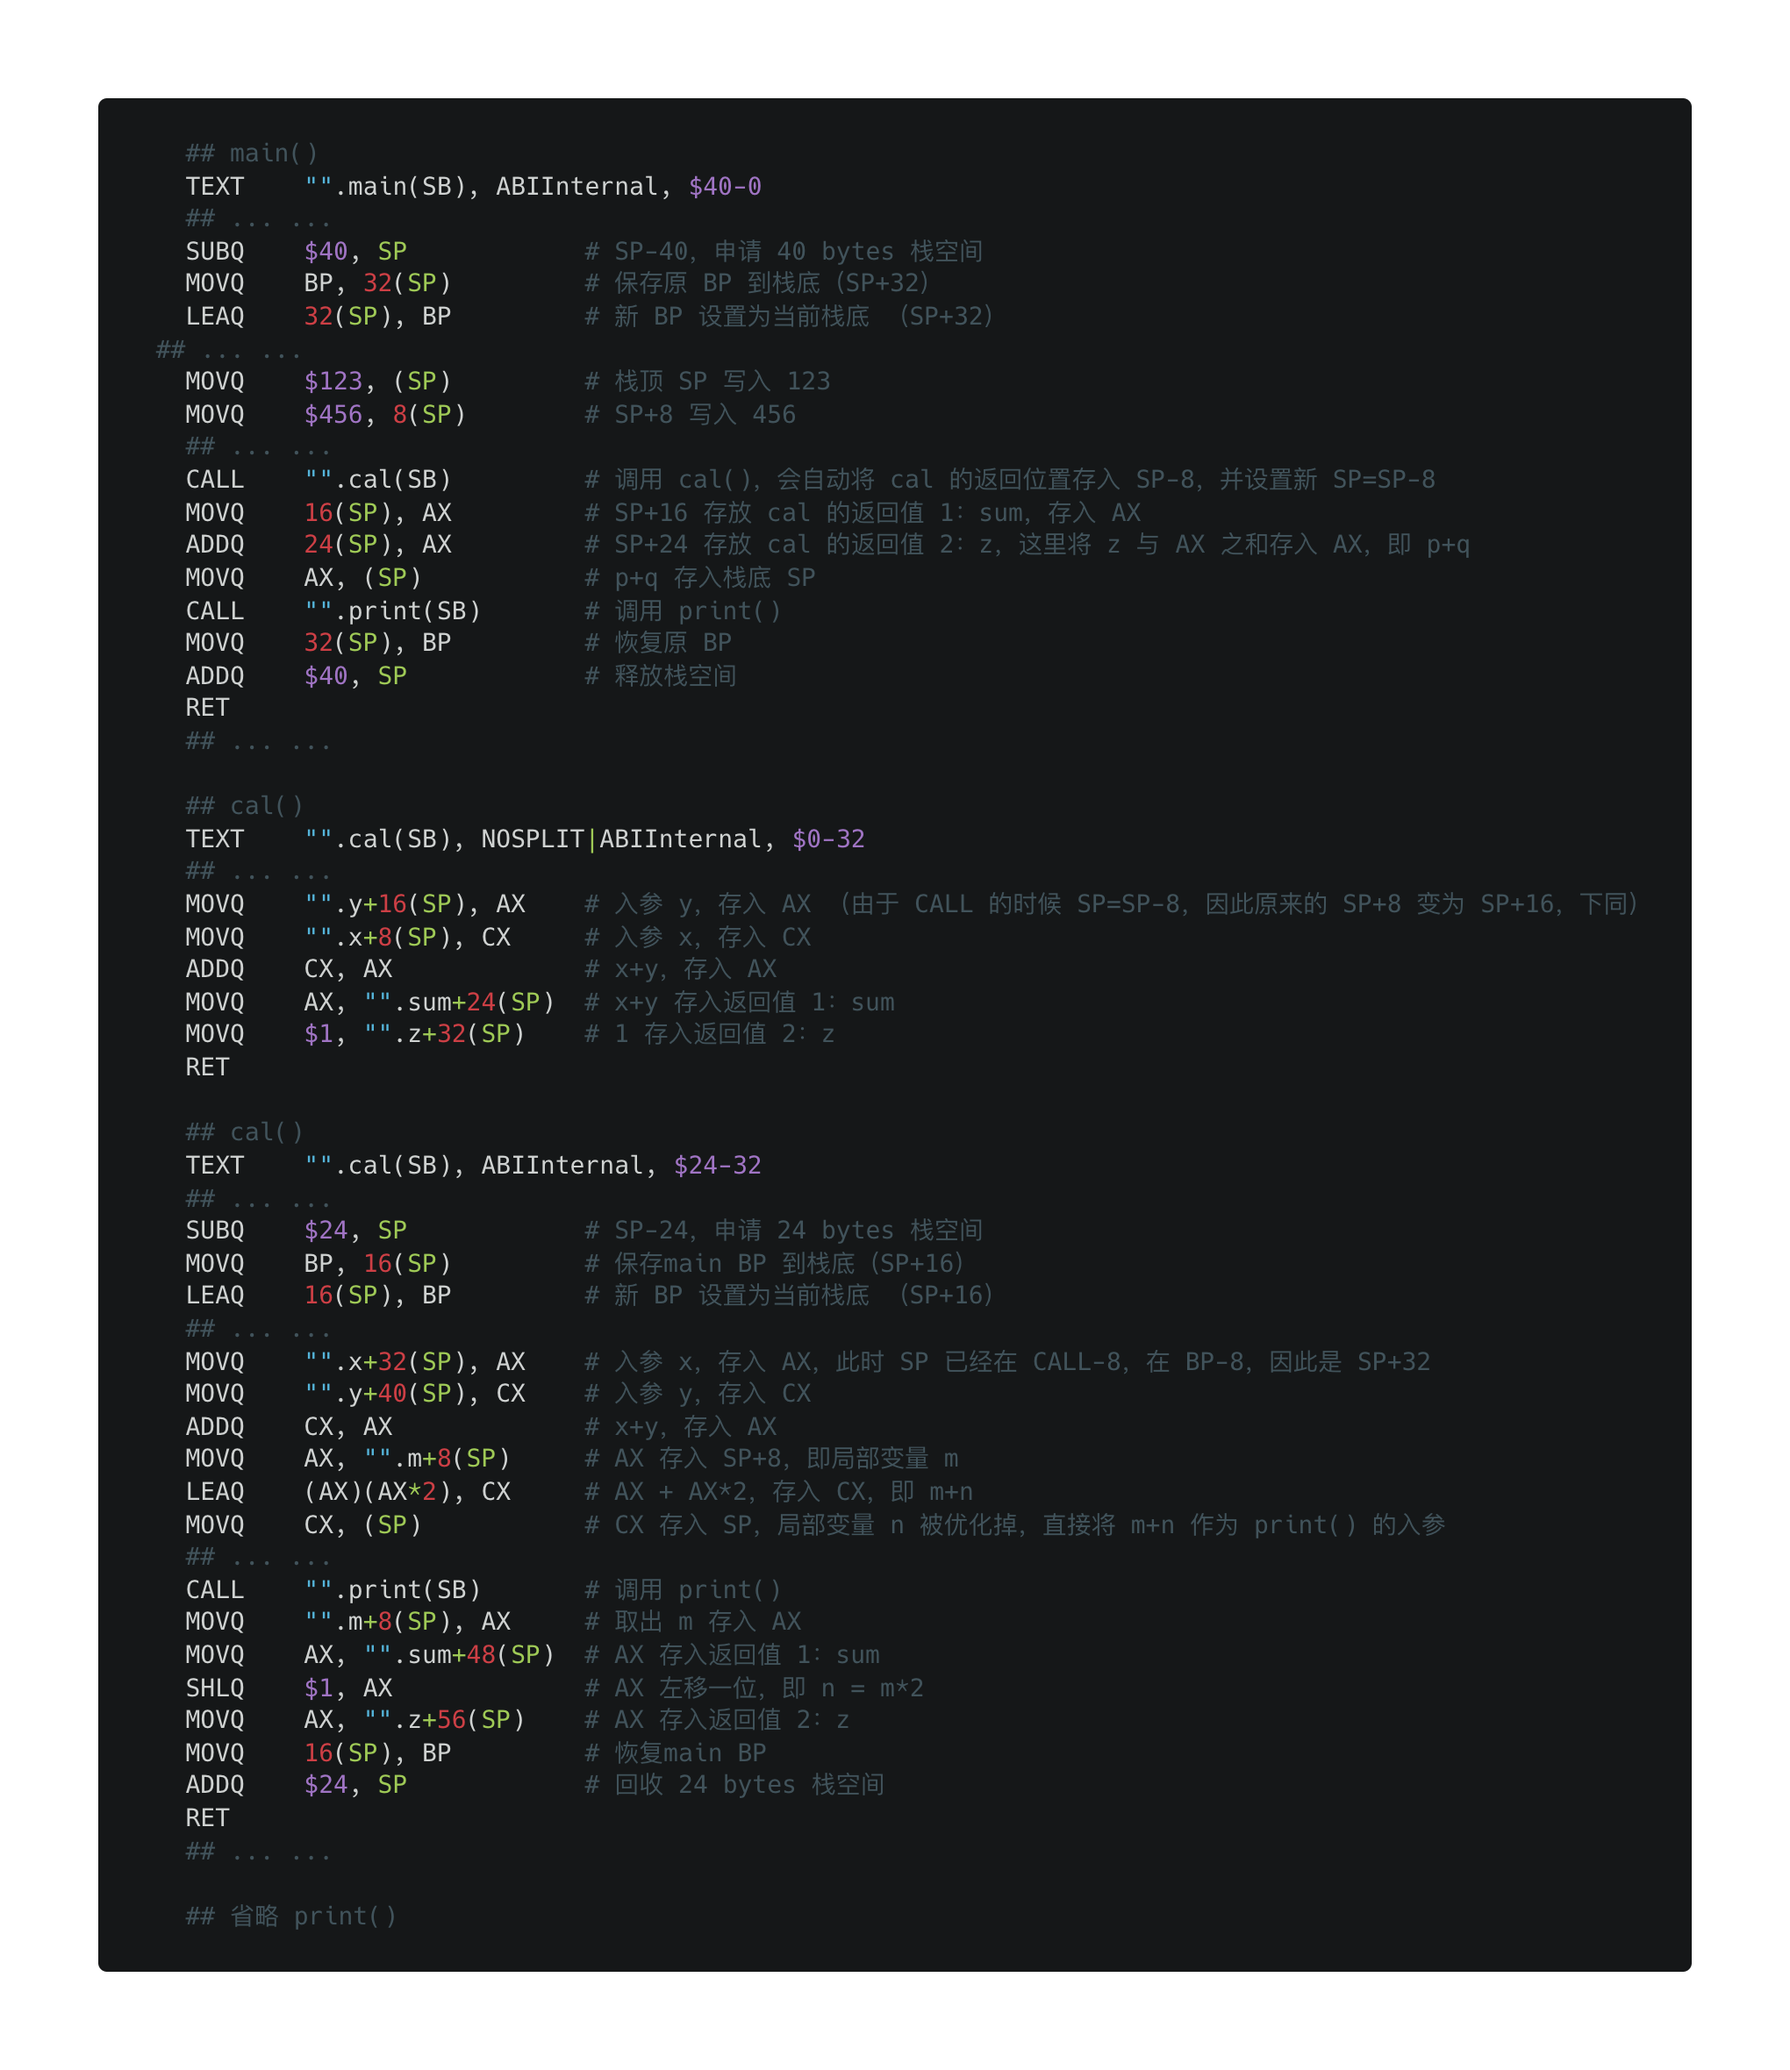
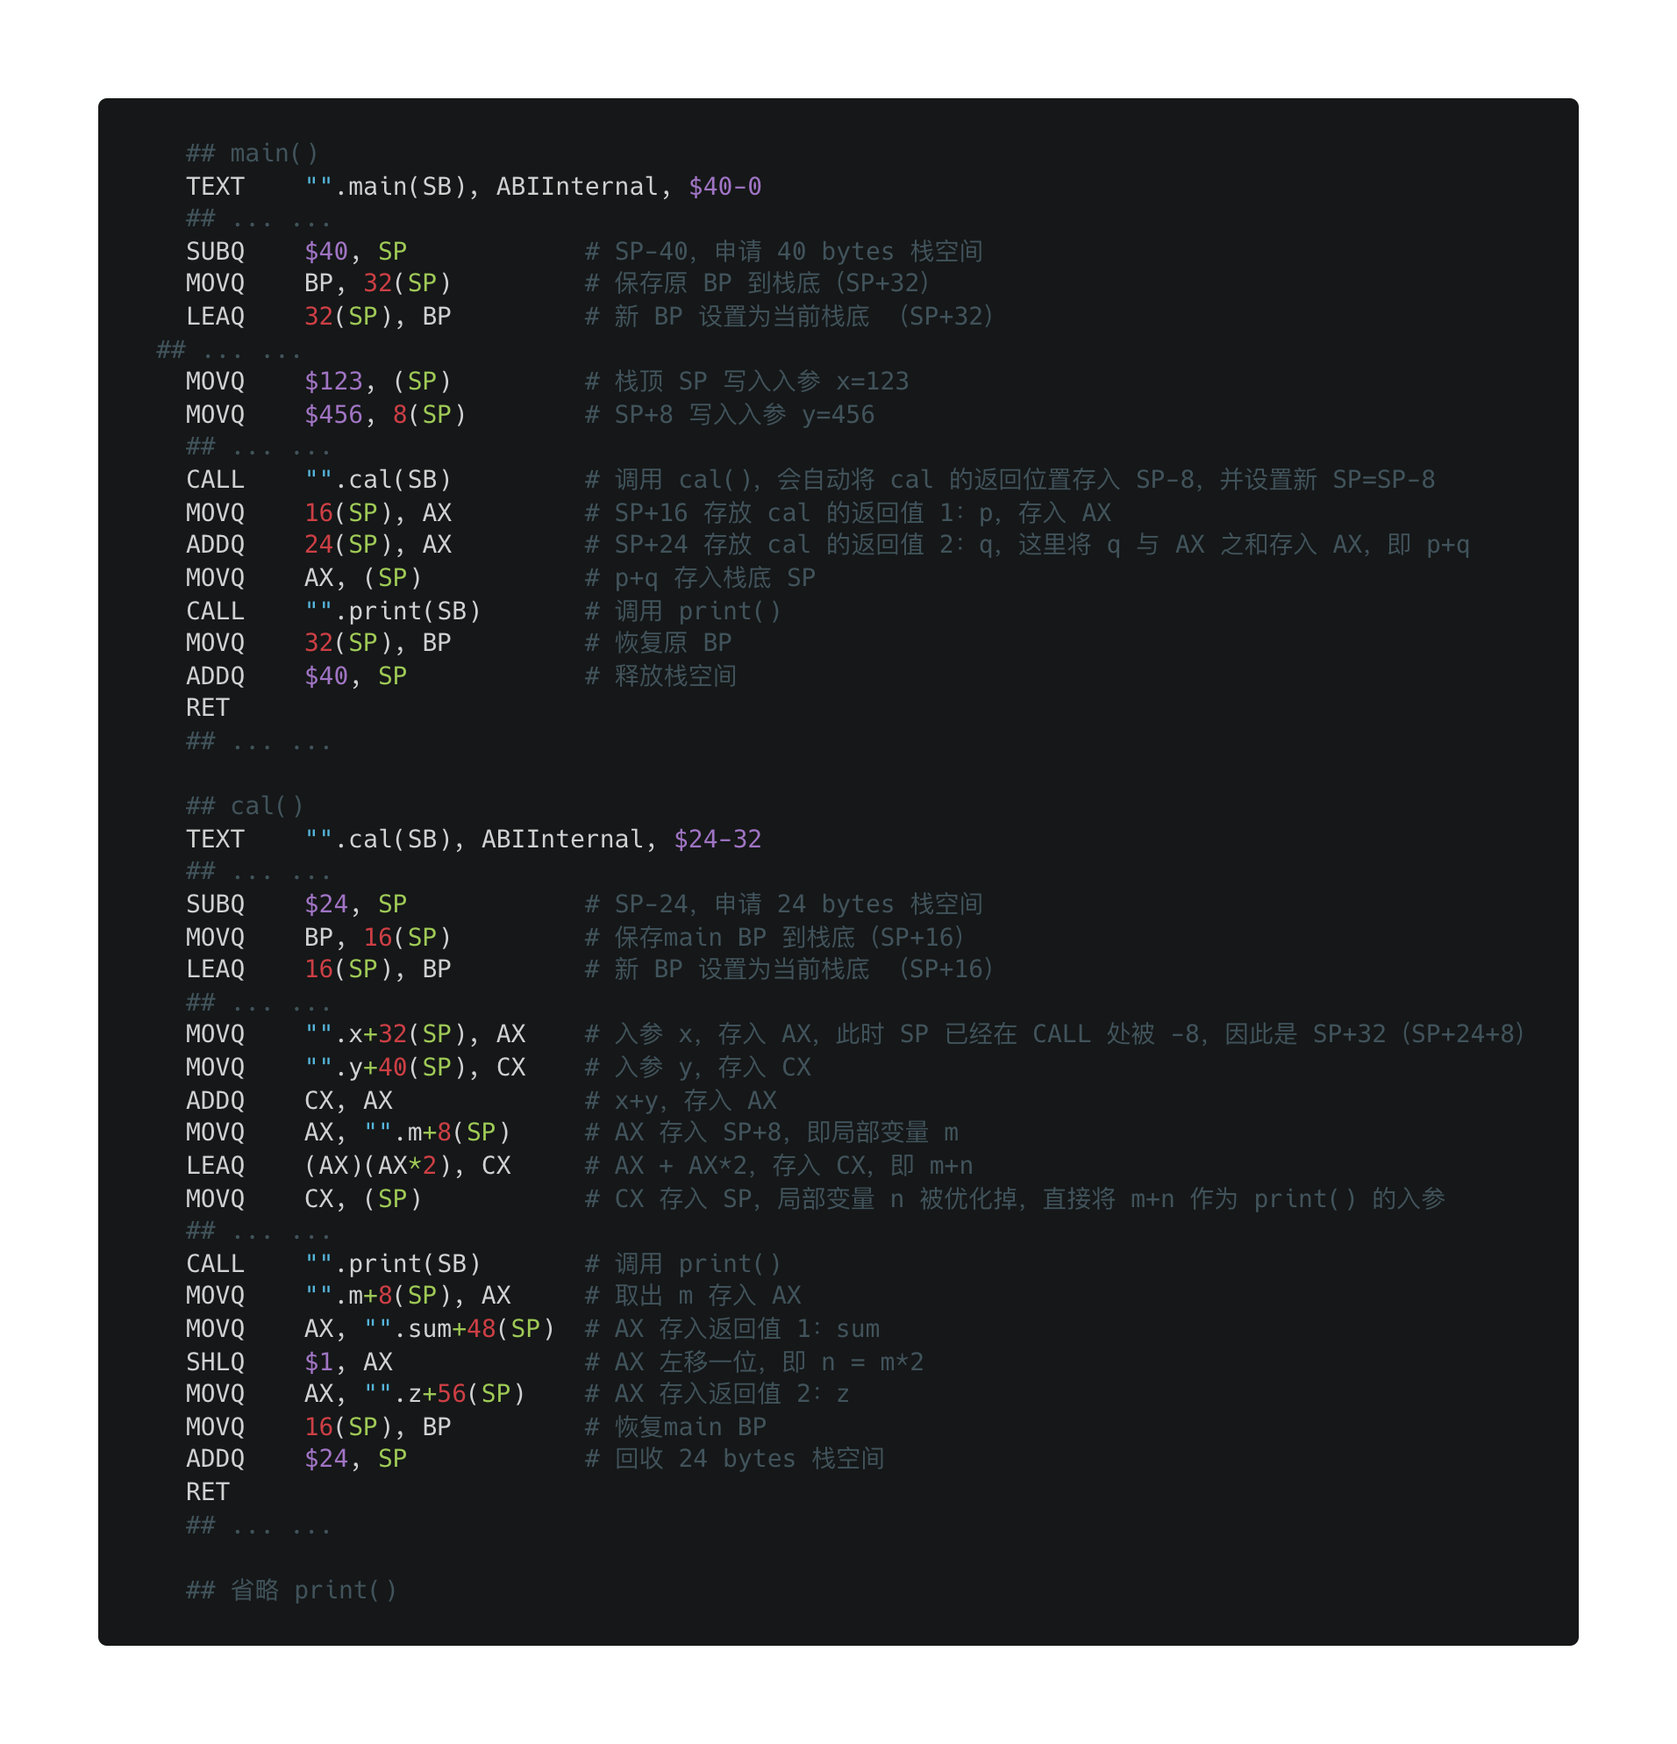
docs: fix error in go runtime compute

diff --git a/source/_posts/go-runtime-compute.md b/source/_posts/go-runtime-compute.md
@@ -101,7 +101,8 @@ Eli Bendersky 的文章主要想表达的是现代操作系统的线程开销已
 
 但除了可能创建过多线程产生的资源问题以外，还有额外的劣势：
 
-- 由于粒度较粗，任务内*嵌套的*可并行部分（如多个 I/O 操作等），难以并行化。本质上是无法真正将 CPU 操作和 I/O 操作分开，而由于 CPU 操作和 I/O 操作的差异性，频繁在 CPU 操作之间进行上下文切换，有害无益。
+- 由于粒度较粗，任务内*嵌套的*可并行部分（如多个 I/O 操作等），难以并行化。本质上是无法真正将 CPU 操作和 I/O 操作分开，CPU 操作和 IO 操作交替执行，会导致同一个线程被反复的换入换出产生许多切换开销
+- 此外，同一个线程在反复切换时，有可能调度到不同的 CPU 上，这种跨 CPU 的切换开销大得多
 
 
 
@@ -109,7 +110,7 @@ Eli Bendersky 的文章主要想表达的是现代操作系统的线程开销已
 
 对于 I/O 密集型的任务，执行过程中有很大一部时间都在等待，当 I/O 返回时任务才能继续工作。也正是这种等待的特点，给了我们创建多线程来提高 CPU 利用率的理由：阻塞等待中的线程不需要 CPU 时间。
 
-设想假如我们将这种机制反过来，线程不是阻塞等待被唤醒，而是主动询问所有正在等待的 I/O，检查某个 I/O 是不是返回了。如果返回了，就处理与之关联的任务，而如果没有返回，线程就继续检查下一个等待中的 I/O，或者创建新的 I/O 调用。
+设想假如我们将这种机制反过来，线程不是阻塞等待被唤醒，而是主动询问所有正在等待的 I/O，检查某个（或某些） I/O 是不是返回了。如果返回了，就处理与之关联的任务，而如果没有返回，线程就继续检查下一个等待中的 I/O，或者处理其他任务。
 
 与阻塞唤醒的被动式相比，询问的方式会更加主动。原先的 “执行任务 -> I/O 阻塞 -> 继续执行” 的流程，变成了 “执行任务 -> 注册 I/O 事件 -> 回调任务” 。
 
@@ -119,11 +120,11 @@ Eli Bendersky 的文章主要想表达的是现代操作系统的线程开销已
 
 从工作原理上我们就能发觉，事件驱动模型有如下的特点：
 
-- 不需要很多线程：与多线程通过阻塞出让 CPU 相比，主动切换任务继续使用 CPU 资源，实际上是绕过了系统调度器
+- 不需要很多线程：与多线程通过阻塞出让 CPU 相比，主动切换任务继续使用 CPU 资源，实际上是绕过了系统调度器，在用户侧传递任务上下文，比在内核侧切换线程上下文的开销小得多
 - 需要通过回调函数来保持事件与任务的关联关系：通过事件回调来继续执行先前被中断的任务
 - 主线程不允许存在阻塞：
   - 在多线程模型下对资源的阻塞等待式访问，需要全部替换成非阻塞式访问，否则一旦出现阻塞，将导致事件轮询线程无法继续轮询。
-  - 对于阻塞 I/O 实际上还是需要引入线程池，但此时的 I/O 线程只负责 I/O 操作，不再负责处理任务逻辑
+  - 对于阻塞 I/O 实际上还是需要引入线程池，但此时的 I/O 线程只负责 I/O 操作，不再负责处理计算或协调逻辑
 
 
 
@@ -379,28 +380,18 @@ func print(p int) {
 	MOVQ	BP, 32(SP)         # 保存原 BP 到栈底（SP+32）
 	LEAQ	32(SP), BP         # 新 BP 设置为当前栈底 （SP+32）
   ## ... ...
-	MOVQ	$123, (SP)         # 栈顶 SP 写入 123
-	MOVQ	$456, 8(SP)        # SP+8 写入 456
+	MOVQ	$123, (SP)         # 栈顶 SP 写入入参 x=123
+	MOVQ	$456, 8(SP)        # SP+8 写入入参 y=456
 	## ... ...
 	CALL	"".cal(SB)         # 调用 cal()，会自动将 cal 的返回位置存入 SP-8，并设置新 SP=SP-8
-	MOVQ	16(SP), AX         # SP+16 存放 cal 的返回值 1：sum，存入 AX
-	ADDQ	24(SP), AX         # SP+24 存放 cal 的返回值 2：z，这里将 z 与 AX 之和存入 AX，即 p+q
+	MOVQ	16(SP), AX         # SP+16 存放 cal 的返回值 1：p，存入 AX
+	ADDQ	24(SP), AX         # SP+24 存放 cal 的返回值 2：q，这里将 q 与 AX 之和存入 AX，即 p+q
 	MOVQ	AX, (SP)           # p+q 存入栈底 SP
 	CALL	"".print(SB)       # 调用 print()
 	MOVQ	32(SP), BP         # 恢复原 BP
 	ADDQ	$40, SP            # 释放栈空间
 	RET
 	## ... ...
-  
-	## cal()
-	TEXT	"".cal(SB), NOSPLIT|ABIInternal, $0-32
-	## ... ...
-	MOVQ	"".y+16(SP), AX    # 入参 y，存入 AX （由于 CALL 的时候 SP=SP-8，因此原来的 SP+8 变为 SP+16，下同）
-	MOVQ	"".x+8(SP), CX     # 入参 x，存入 CX
-	ADDQ	CX, AX             # x+y，存入 AX
-	MOVQ	AX, "".sum+24(SP)  # x+y 存入返回值 1：sum
-	MOVQ	$1, "".z+32(SP)    # 1 存入返回值 2：z
-	RET
 	
 	## cal()
 	TEXT	"".cal(SB), ABIInternal, $24-32
@@ -409,7 +400,7 @@ func print(p int) {
 	MOVQ	BP, 16(SP)         # 保存main BP 到栈底（SP+16）
 	LEAQ	16(SP), BP         # 新 BP 设置为当前栈底 （SP+16）
 	## ... ...
-	MOVQ	"".x+32(SP), AX    # 入参 x，存入 AX，此时 SP 已经在 CALL-8，在 BP-8，因此是 SP+32
+	MOVQ	"".x+32(SP), AX    # 入参 x，存入 AX，此时 SP 已经在 CALL 处被 -8，因此是 SP+32（SP+24+8）
 	MOVQ	"".y+40(SP), CX    # 入参 y，存入 CX
 	ADDQ	CX, AX             # x+y，存入 AX
 	MOVQ	AX, "".m+8(SP)     # AX 存入 SP+8，即局部变量 m
